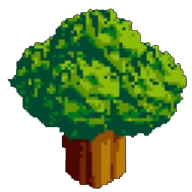
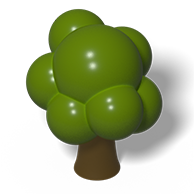
added entity rendering, needs some work to reduce performance impact

diff --git a/src/client/classes/entities.js b/src/client/classes/entities.js
@@ -1,0 +1,89 @@
+class Entities {
+
+  constructor(canvas,mapJSON){
+    this.data = mapJSON.map;
+    this.width = mapJSON.width;
+    this.height = mapJSON.height;
+    this.canvas = canvas;
+    this.offscreenCanvas = document.createElement('canvas');
+    this.offscreenContext = this.offscreenCanvas.getContext('2d');
+  }
+
+
+  //This needs to be updated - i.e draw all static entities to a virtual canvas like the map, but only redraw the ones that have occlusion)
+  initializeEntities(playerX, playerY){
+    let entitySheet = mapImg.entities.horizons_3_3;
+    let entitySheetTileSize = entitySheet.width; // This will need to be updated -> entitySheet.width / 5
+
+    let playerCordX = playerX / 64;
+    let playerCordY = playerY / 64;
+
+    let tileStartX = playerCordX - 10 - 3;
+    let tileStartY = playerCordY - 6 - 3;
+
+    let tilesX = 30;
+    let tilesY = 17;
+
+    // let topLeftX = playerX - WIDTH/2;
+    // topLeftX = topLeftX - (topLeftX % 64);
+    // let topLeftY = playerY - HEIGHT/2;
+    // topLeftY = topLeftY - (topLeftY % 64);
+    // let tileStartX = topLeftX / TILESIZE - 1;
+    // let tileStartY = Math.floor(topLeftY / TILESIZE) - 1;
+    // let tileEndX = tileStartX + (WIDTH/TILESIZE);
+    // let tileEndY = Math.floor(tileStartY + (HEIGHT/TILESIZE));
+
+    // this.offscreenCanvas.width = WIDTH;
+    // this.offscreenCanvas.height = HEIGHT;
+
+    this.offscreenCanvas.width = tilesX * TILESIZE;
+    this.offscreenCanvas.height = tilesY * TILESIZE;
+
+
+
+
+    let virtualY = 0;
+
+    let totalTrees = 0;
+
+    // Traverse the map going LEFT-DOWN
+    for(let i = tileStartY; i <= tileStartY + tilesY; i++){
+      // If index is in array bounds
+      let virtualX = tilesX;
+      if(i >= 0){
+        for(let j = tileStartX + tilesX; j >= tileStartX; j--){
+          // If index is in array bounds
+          if(j >= 0){
+            //console.log(tileStartX, tileStartY, tileEndX, tileEndY, j, i);
+            let currentTileValue = this.data[i][j].entity.id - ENTITYOFFSET;
+            if(currentTileValue >= 0){
+              //console.log("drawing Tree @", j, i);
+              // Calculate the row/column to grab the image from the sprite map
+              let spriteIndexRow = Math.floor(currentTileValue/(SPRITESHEETWIDTH))
+              let spriteIndexCol = currentTileValue % (SPRITESHEETWIDTH);
+              this.offscreenContext.drawImage(entitySheet, entitySheetTileSize*spriteIndexCol, entitySheetTileSize*spriteIndexRow, entitySheetTileSize, entitySheetTileSize, virtualX*TILESIZE, (virtualY-2)*TILESIZE, entitySheetTileSize, entitySheetTileSize);
+            }
+          }
+          virtualX--;
+        }
+      }
+      virtualY++;
+    }
+
+    //console.log("Total Trees: ", totalTrees);
+
+  }
+
+  drawEntities(playerX, playerY){
+    this.initializeEntities(playerX, playerY);
+    let topLeftX = playerX - WIDTH/2;
+    topLeftX = topLeftX - (topLeftX % 64);
+    let topLeftY = playerY - HEIGHT/2;
+    topLeftY = topLeftY - (topLeftY % 64);
+    //this.canvas.drawImage(this.offscreenCanvas, 0, 0);
+    //this.canvas.drawImage(this.offscreenCanvas, topLeftX - TILESIZE/2, topLeftY - TILESIZE/4);
+    this.canvas.drawImage(this.offscreenCanvas, topLeftX - 3*TILESIZE - TILESIZE/2, topLeftY - 3*TILESIZE - TILESIZE/4);
+
+  }
+
+}

diff --git a/app.js b/app.js
@@ -2,7 +2,7 @@ var CT = require('./src/constants.js');
 var utils = require('./src/utils.js');
 var database = require('./src/server/db.js');
 var Player = require('./src/server/player.js');
-var worldJSON = require('./src/client/mapData.js');
+var worldJSON = require('./src/server/mapData.js');
 var Tile = require('./src/server/tile.js');
 
 //console.log(mapJSON);
@@ -18,23 +18,28 @@ var SOCKET_LIST = {};
 var playerList = {};
 var tileMap = [];
 
-for (let row in worldJSON.map) {
-	for (let col in worldJSON.map[row]) {
-    var tile = new Tile(col, row,
-      {
-        spriteId: worldJSON.map[row][col].ground.id,
-        collision: worldJSON.map[row][col].ground.collision
-      },
-      {
-        spriteId: worldJSON.map[row][col].entity.id,
-        collision: worldJSON.map[row][col].entity.collision,
-        occlusion: worldJSON.map[row][col].entity.occlusion
-      })
+function loadTileMap(callback) {
+  for (let row in worldJSON.map) {
+  	for (let col in worldJSON.map[row]) {
+      var tile = new Tile(col, row,
+        {
+          spriteId: worldJSON.map[row][col].ground.id,
+          collision: worldJSON.map[row][col].ground.collision
+        },
+        {
+          spriteId: worldJSON.map[row][col].entity.id,
+          collision: worldJSON.map[row][col].entity.collision,
+          occlusion: worldJSON.map[row][col].entity.occlusion
+        })
 
-    tileMap.push(tile)
-    //console.log(tile);
-	}
+      tileMap.push(tile)
+      //console.log(tile);
+  	}
+  }
+  callback();
 }
+
+
 
 console.log(tileMap);
 
@@ -115,7 +120,9 @@ io.sockets.on('connection', function(socket){
     if (targetTile.occupyingPlayer) {
       playerList[data.attackingPlayer].target = targetTile.occupyingPlayer;
     } else {
-      playerList[data.attackingPlayer].target = undefined;
+      if(playerList[data.attackingPlayer]){
+        playerList[data.attackingPlayer].target = undefined;
+      }
     }
   });
 })
@@ -134,7 +141,7 @@ var lastUpdate = Date.now();
 var frameCount = 0;
 var frames = [];
 
-mainUpdate();
+loadTileMap(mainUpdate);
 
 function mainUpdate() {
   let start = Date.now();

diff --git a/src/client/game.js b/src/client/game.js
@@ -20,6 +20,7 @@ var ctxHUD = document.getElementById("ctxHUD").getContext("2d");
 
 var hud;
 var map;
+var entities;
 
 ctxEntities.scale(scale,scale);
 ctxGround.scale(scale,scale);
@@ -79,6 +80,7 @@ socket.on('initPlayer',function(data){
   drawTestMap();
   hud = new Hud(ctxHUD);
   map = new Map(ctxGround,worldJSON);
+  entities = new Entities(ctxEntities,worldJSON);
   loggedIn = true;
 });
 
@@ -183,17 +185,18 @@ document.onmousedown = function(event){
     var currentTileX = playerX / 64;
     var currentTileY = playerY / 64;
 
-    // 640 and 364 magic numbers to be replaced by constants
-    var distFromTargetInTilesX = Math.round((mouseX - 640) / 64);
-    var distFromTargetInTilesY = Math.round((mouseY - 364) / 64);
+    // Calculate clicked tile distance
+    var distFromTargetInTilesX = Math.round((mouseX - WIDTH/2) / 64);
+    var distFromTargetInTilesY = Math.round((mouseY - HEIGHT/2) / 64);
 
     var targetTileX = currentTileX + distFromTargetInTilesX;
     var targetTileY = currentTileY + distFromTargetInTilesY;
     console.log(targetTileX);
     console.log(targetTileY);
     //console.log(targetTileX, targetTileY)
-
-    socket.emit('attack', {attackingPlayer: playerID, tileX: targetTileX, tileY: targetTileY})
+    if(loggedIn){
+        socket.emit('attack', {attackingPlayer: playerID, tileX: targetTileX, tileY: targetTileY})
+    }
     //socket.emit('keyPress', {inputId:'attack', state:true});
     mouseClicked = true;
   }
@@ -295,13 +298,16 @@ setInterval(function() {
     ctxEntities.scale(scale,scale);
     ctxGround.scale(scale,scale);
 
-    if(isPlayerMoving){
-      map.drawGround(playerX, playerY);
-      ctxGround.restore();
-    }
-
     // Draw players
     ctxEntities.clearRect(playerX - WIDTH/2,playerY - HEIGHT/2,WIDTH,HEIGHT);
+
+    if(isPlayerMoving){
+      map.drawGround(playerList[playerID].x, playerList[playerID].y);
+      ctxGround.restore();
+      entities.drawEntities(playerList[playerID].x, playerList[playerID].y);
+    }
+
+
 
     let sortedList = sortPlayersByY();
 

diff --git a/src/client/classes/map.js b/src/client/classes/map.js
@@ -14,18 +14,21 @@ class Map {
     this.offscreenCanvas.height = this.height * TILESIZE;
 
     let mapSheet = mapImg.tile.horizons_1_1;
+    let mapSheetTileSize = mapSheet.width / 5;
 
     this.offscreenContext.fillStyle = "#000000";
     this.offscreenContext.fillRect(-WIDTH/2,-HEIGHT/2,this.width*TILESIZE+WIDTH,this.height*TILESIZE+HEIGHT)
 
     for(let i = 0; i < this.height; i++){
       for(let j = this.width-1; j >= 0; j--){
-        let currentTileValue = this.data[i][j].ground.id - SPRITEOFFSET;
-        // Calculate the row/column to grab the image from the sprite map
-        let spriteIndexRow = Math.floor(currentTileValue/(SPRITESHEETWIDTH))
-        let spriteIndexCol = currentTileValue % (SPRITESHEETWIDTH);
-        // Map is shifted TILESIZE/2 left and TILESIZE/4 up in order to draw players in the middle of tiles
-        this.offscreenContext.drawImage(mapSheet, TILESIZE*spriteIndexCol, TILESIZE*spriteIndexRow, TILESIZE, TILESIZE, j*TILESIZE - TILESIZE/2, i*TILESIZE - TILESIZE/4, TILESIZE, TILESIZE);
+        let currentTileValue = this.data[i][j].ground.id - GROUNDOFFSET;
+        if(currentTileValue >= 0){
+          // Calculate the row/column to grab the image from the sprite map
+          let spriteIndexRow = Math.floor(currentTileValue/(SPRITESHEETWIDTH))
+          let spriteIndexCol = currentTileValue % (SPRITESHEETWIDTH);
+          // Map is shifted TILESIZE/2 left and TILESIZE/4 up in order to draw players in the middle of tiles
+          this.offscreenContext.drawImage(mapSheet, mapSheetTileSize*spriteIndexCol, mapSheetTileSize*spriteIndexRow, mapSheetTileSize, mapSheetTileSize, j*TILESIZE - TILESIZE/2, i*TILESIZE - TILESIZE/4, mapSheetTileSize, mapSheetTileSize);
+        }
       }
     }
     this.initialized = true;

diff --git a/src/server/player.js b/src/server/player.js
@@ -49,13 +49,30 @@ class Player extends Entity {
       // update target players health, static value for now
       console.log("TRYING TO ATTACK");
       this.target.hp -= 5;
+      if(this.target.hp <= 0){
+        this.target = undefined;
+      }
     }
   }
 
   update(tileMap) {
     //this.updateSpd();
     //set the default update function to super_update (for use in new update function)
-    this.updatePosition(tileMap)
+    if(this.isAlive()){
+      this.updatePosition(tileMap)
+    }
+  }
+
+  isAlive() {
+    if(this.hp > 0){
+      return true;
+    } else {
+      this.resetKeys();
+      this.hp = 100;
+      this.x = Math.floor(Math.random()*50)*64;
+      this.y = Math.floor(Math.random()*50)*64;
+      this.target = undefined;
+    }
   }
 
   updatePosition(tileMap){
@@ -93,6 +110,9 @@ class Player extends Entity {
       this.y -= this.moveAmount;
     }
     // not sure where to put this
+    tileIndex = 100 * yInTiles + xInTiles;
+    tileMap[tileIndex].occupyingPlayer = null;
+
     xInTiles = this.x / 64;
     yInTiles = this.y / 64;
 

diff --git a/src/client/index.html b/src/client/index.html
@@ -38,6 +38,7 @@
 <script src="client/classes/player.js" type="text/javascript"></script>
 <script src="client/classes/hud.js" type="text/javascript"></script>
 <script src="client/classes/map.js" type="text/javascript"></script>
+<script src="client/classes/entities.js" type="text/javascript"></script>
 <!-- RAW DATA -->
 <script src="client/mapData.js" type="text/javascript"></script>
 

diff --git a/src/client/constants.js b/src/client/constants.js
@@ -11,4 +11,7 @@ var ANIMATIONTIME = 100;
 const MAXSCALE = 3;
 const MINSCALE = 1;
 const SPRITESHEETWIDTH = 5;
-const SPRITEOFFSET = 10;
+
+//Offset index -- This is caused by the map editor (When sprites are moved to the server, this should be passed in)
+const GROUNDOFFSET = 10;
+const ENTITYOFFSET = 84;

diff --git a/src/server/mapData.js b/src/server/mapData.js
@@ -110002,3 +110002,5 @@ var worldJSON = {
 		}
 	}]]
 };
+
+module.exports = worldJSON;
